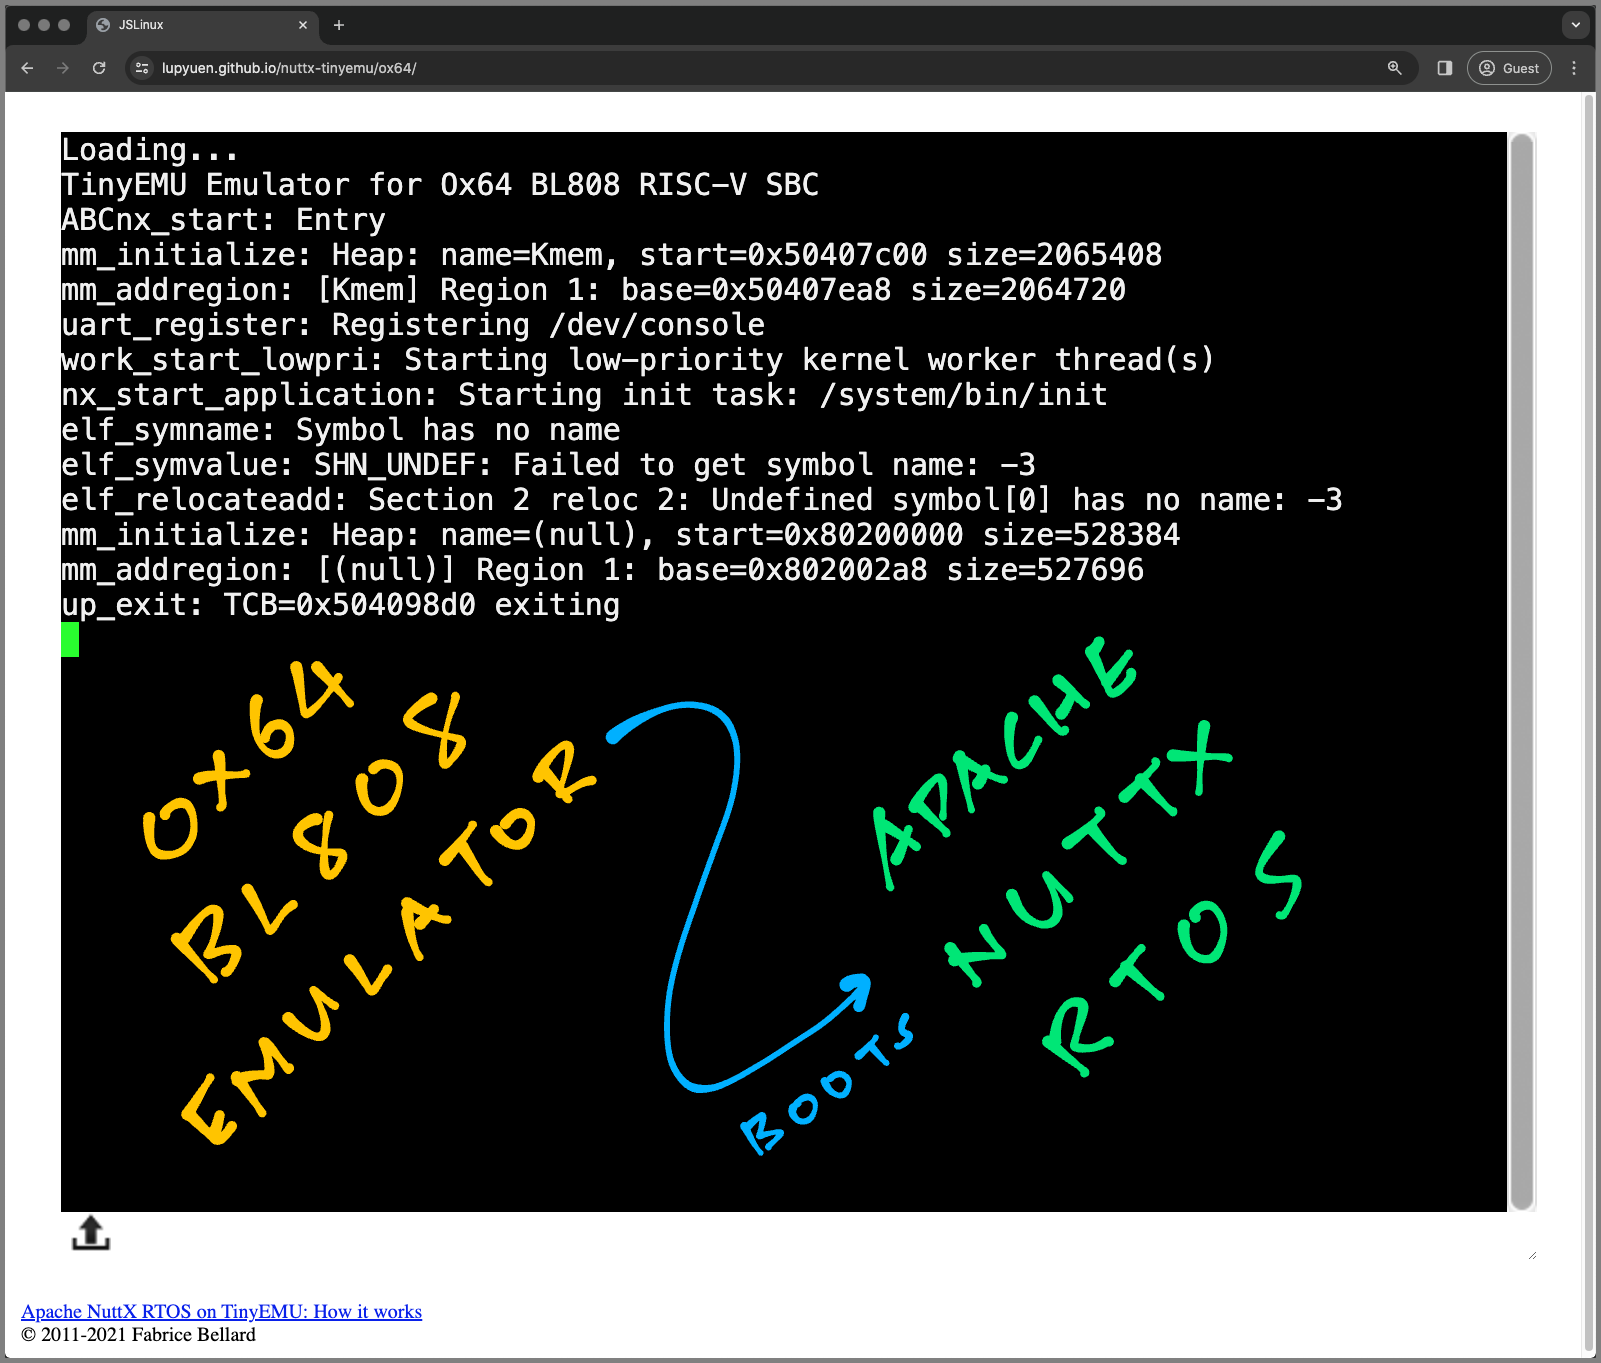
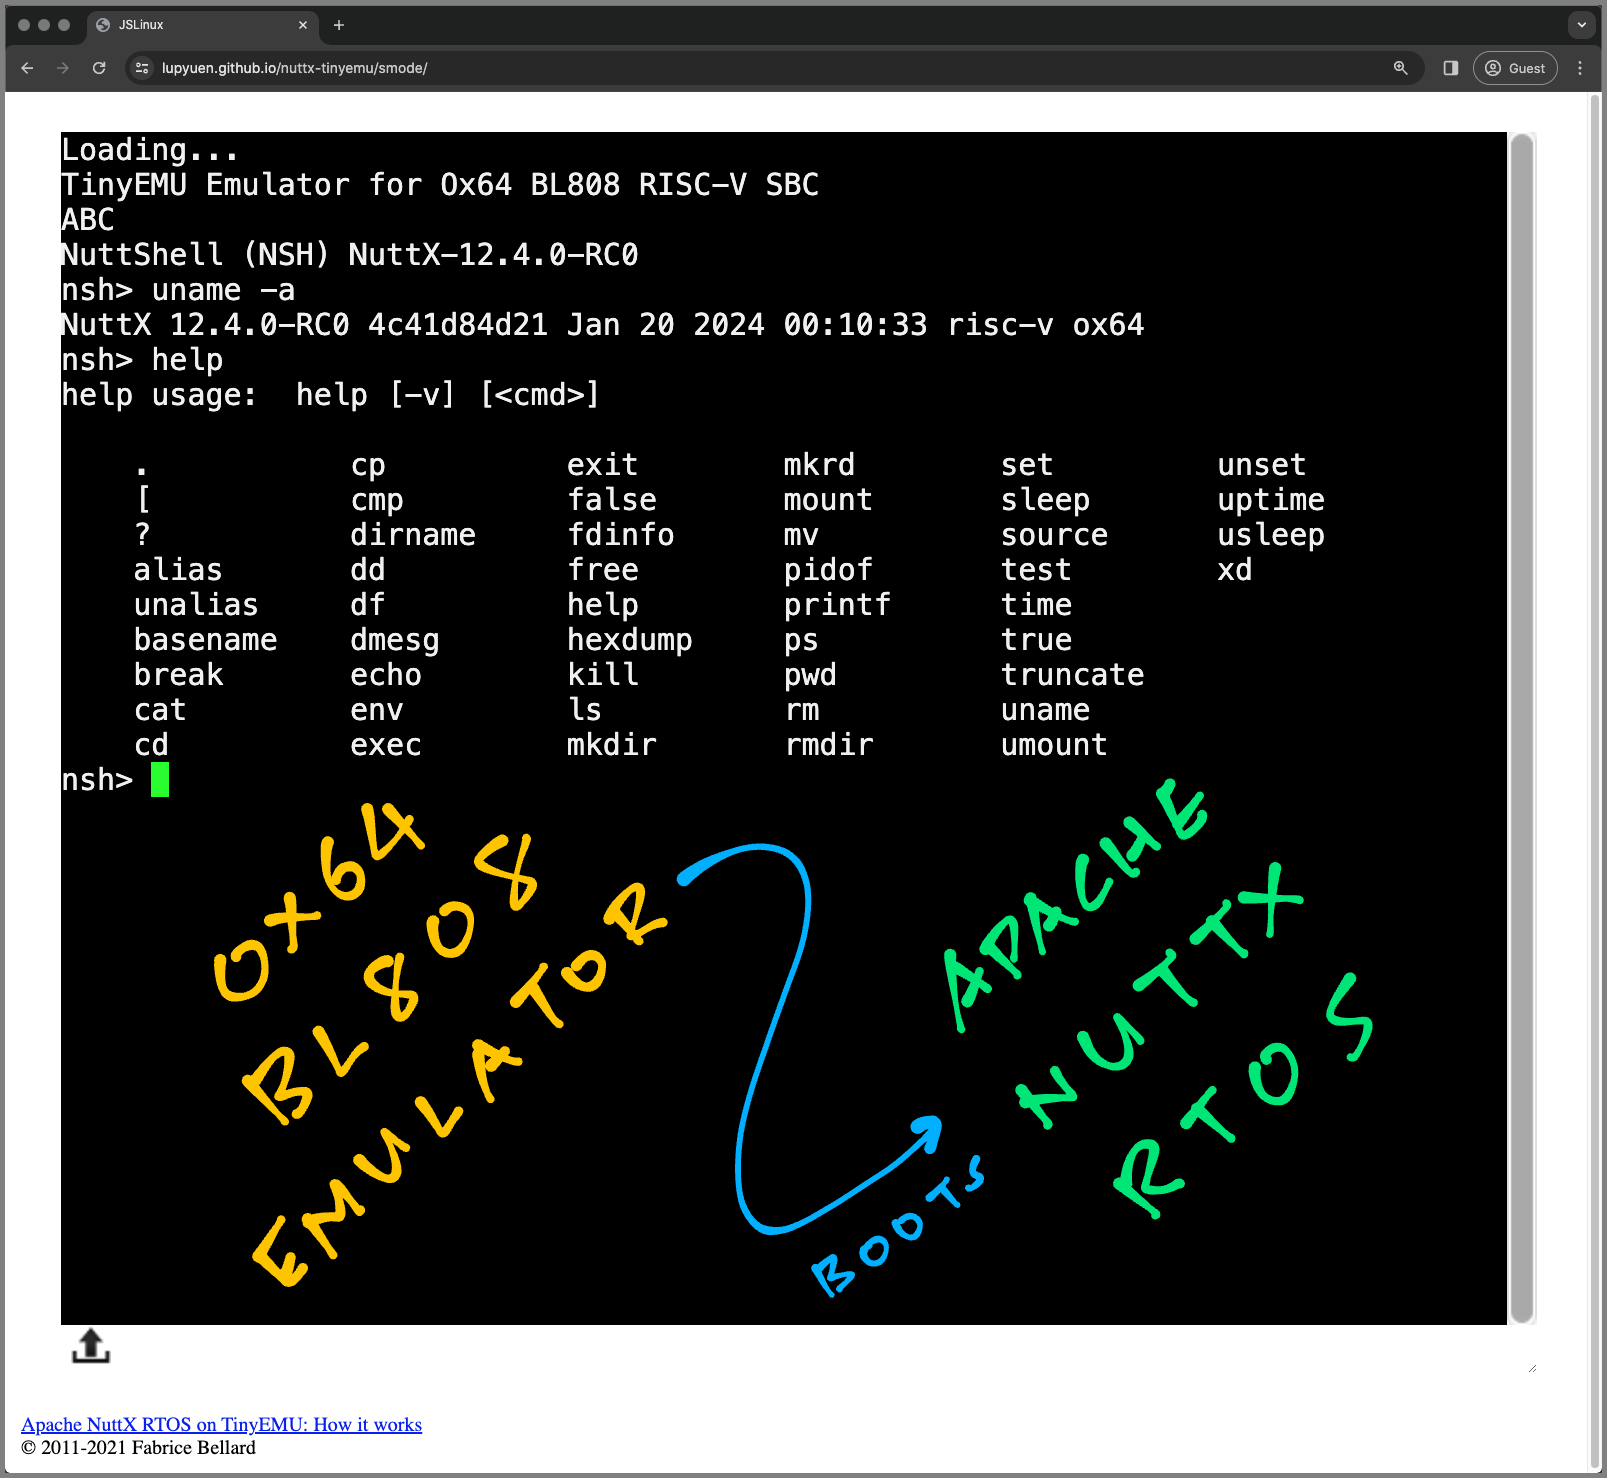
Update article

diff --git a/src/tinyemu2.md b/src/tinyemu2.md
@@ -4,13 +4,13 @@
 
 ![Ox64 BL808 Emulator with TinyEMU RISC-V Emulator and Apache NuttX RTOS](https://lupyuen.github.io/images/tinyemu2-title.png)
 
-[_(Live Demo of Ox64 BL808 Emulator)_](https://lupyuen.github.io/nuttx-tinyemu/ox64)
+[_(Live Demo of Ox64 BL808 Emulator)_](https://lupyuen.github.io/nuttx-tinyemu/smode)
 
 _In olden times we had Computer Games (plus Operating Systems) on 5.25-inch __Floppy Disks__. And we'd boot the Floppy Disks (clackety-clack) on __Apple II Computers__ with 64 KB RAM._
 
 Today (40 years later) we boot __microSD Cards__ (clickety-click) on [__Ox64 BL808__](https://wiki.pine64.org/wiki/Ox64) RISC-V Single-Board Computers with 64 MB RAM. (Pic below)
 
-_What if we could turn it into a_ [__Virtual Ox64 SBC__](https://lupyuen.github.io/nuttx-tinyemu/ox64) _that boots in our_ [__Web Browser__](https://lupyuen.github.io/nuttx-tinyemu/ox64)? _(Pic above) Exactly like an_ [__Emulated Apple II__](https://www.scullinsteel.com/apple2/#dos33master)!
+_What if we could turn it into a_ [__Virtual Ox64 SBC__](https://lupyuen.github.io/nuttx-tinyemu/smode) _that boots in our_ [__Web Browser__](https://lupyuen.github.io/nuttx-tinyemu/smode)? _(Pic above) Exactly like an_ [__Emulated Apple II__](https://www.scullinsteel.com/apple2/#dos33master)!
 
 In this article we...
 
@@ -22,7 +22,7 @@ In this article we...
 
   [(Which runs in a __Web Browser__)](https://www.barebox.org/jsbarebox/?graphic=1)
 
-- Create our own [__Emulator for Ox64 SBC__](https://lupyuen.github.io/nuttx-tinyemu/ox64)
+- Create our own [__Emulator for Ox64 SBC__](https://lupyuen.github.io/nuttx-tinyemu/smode)
 
   (With minor tweaks to TinyEMU)
 
@@ -522,7 +522,7 @@ Why did it fail? We'll come back to this, first we surf the web...
 
 ![Ox64 BL808 Emulator with TinyEMU RISC-V Emulator and Apache NuttX RTOS](https://lupyuen.github.io/images/tinyemu2-title.png)
 
-[_Live Demo of Ox64 BL808 Emulator_](https://lupyuen.github.io/nuttx-tinyemu/ox64)
+[_Live Demo of Ox64 BL808 Emulator_](https://lupyuen.github.io/nuttx-tinyemu/smode)
 
 # Emulator in the Web Browser
 
@@ -564,7 +564,7 @@ http://0.0.0.0:8000/ox64/index.html
 
 And our Ox64 Emulator appears in the Web Browser! (Pic above)
 
-[(Live Demo of __Ox64 Emulator__)](https://lupyuen.github.io/nuttx-tinyemu/ox64)
+[(Live Demo of __Ox64 Emulator__)](https://lupyuen.github.io/nuttx-tinyemu/smode)
 
 [(How we got the __WebAssembly Files__)](https://lupyuen.github.io/articles/tinyemu#boot-nuttx-in-web-browser)
 
@@ -674,7 +674,7 @@ That's not necessary. We'll __emulate the OpenSBI__ System Timer in TinyEMU.
 
 TODO
 
-Today we created a barebones [__Ox64 BL808 Emulator__](https://lupyuen.github.io/nuttx-tinyemu/ox64) that runs in the Web Browser...
+Today we created a barebones [__Ox64 BL808 Emulator__](https://lupyuen.github.io/nuttx-tinyemu/smode) that runs in the Web Browser...
 
 - We made it by (slightly) tweaking [__TinyEMU RISC-V Emulator__](https://lupyuen.github.io/articles/tinyemu) and compiling to [__WebAssembly__](https://lupyuen.github.io/articles/tinyemu2#emulator-in-the-web-browser)
 
